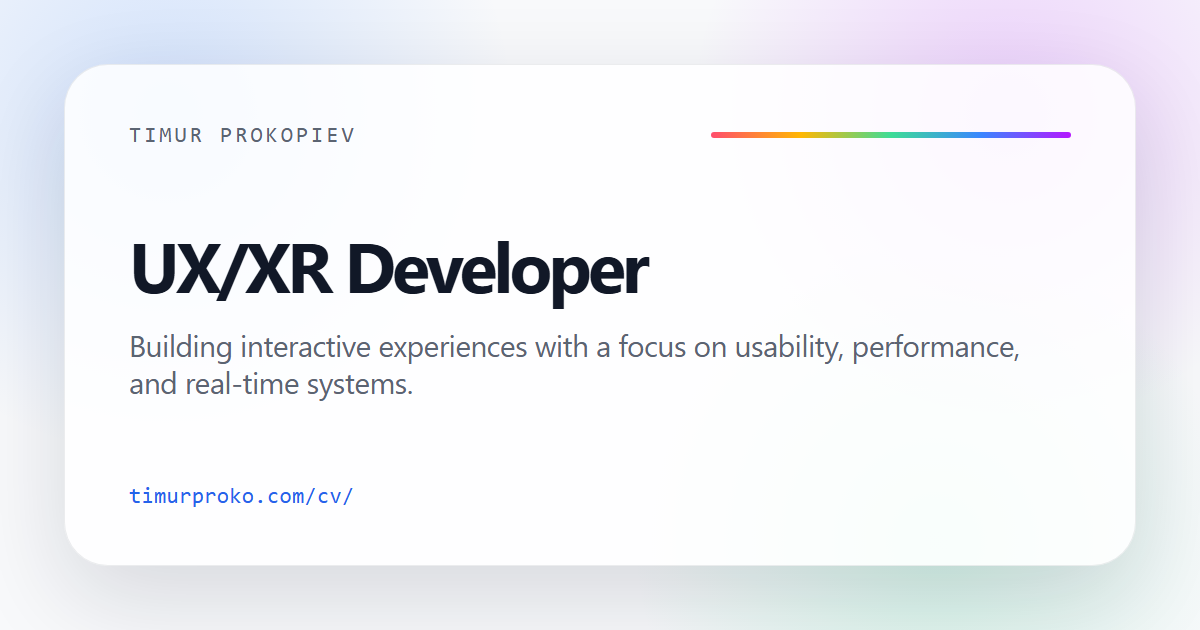
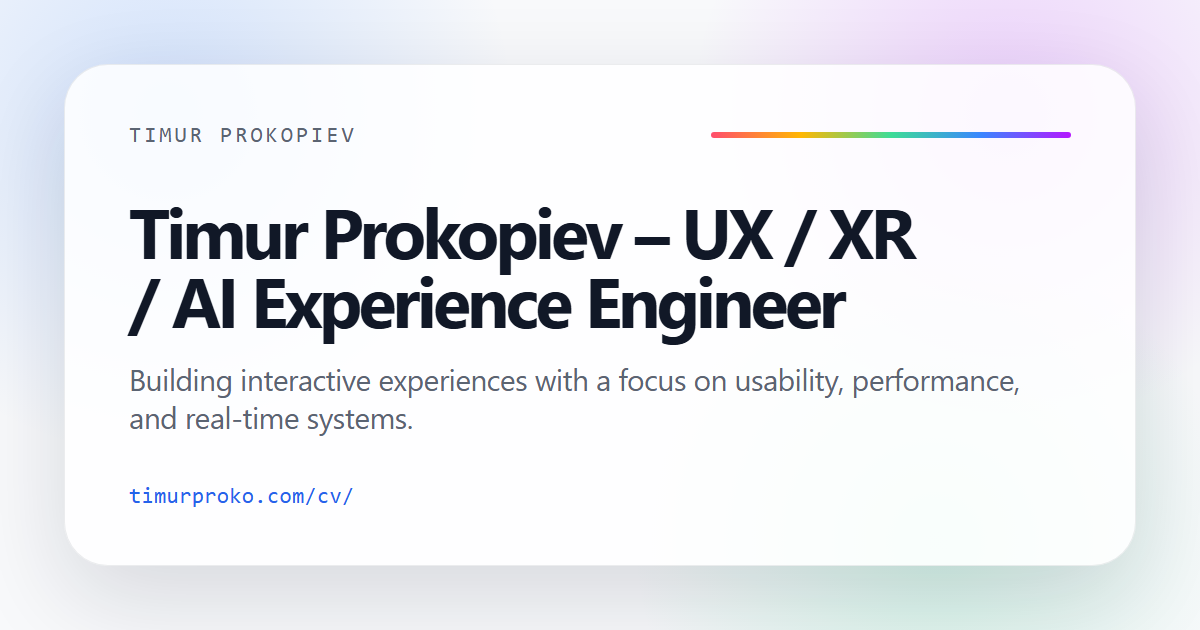
Title the CV like the home page and drop its PDF eyebrow
The CV tab, share tags and share image use "Timur Prokopiev – UX / XR / AI
Experience Engineer" instead of "UX/XR Developer", and the printed CV (and
so the deploy-built PDF) leaves out the "Curriculum Vitae" eyebrow.

Changed region(s): [[0.0925, 0.3317, 0.8633, 0.6937]]

diff --git a/src/cv/index.html b/src/cv/index.html
@@ -8,19 +8,19 @@
   <link rel="canonical" href="https://timurproko.com/cv/" />
   <meta property="og:type" content="website" />
   <meta property="og:site_name" content="Timur Prokopiev" />
-  <meta property="og:title" content="UX/XR Developer" />
+  <meta property="og:title" content="Timur Prokopiev – UX / XR / AI Experience Engineer" />
   <meta property="og:description" content="Building interactive experiences with a focus on usability, performance, and real-time systems." />
   <meta property="og:url" content="https://timurproko.com/cv/" />
   <meta property="og:image" content="https://timurproko.com/assets/social/cv.png" />
   <meta property="og:image:width" content="1200" />
   <meta property="og:image:height" content="630" />
-  <meta property="og:image:alt" content="UX/XR Developer — social preview" />
+  <meta property="og:image:alt" content="Timur Prokopiev – UX / XR / AI Experience Engineer — social preview" />
   <meta name="twitter:card" content="summary_large_image" />
-  <meta name="twitter:title" content="UX/XR Developer" />
+  <meta name="twitter:title" content="Timur Prokopiev – UX / XR / AI Experience Engineer" />
   <meta name="twitter:description" content="Building interactive experiences with a focus on usability, performance, and real-time systems." />
   <meta name="twitter:image" content="https://timurproko.com/assets/social/cv.png" />
   <!-- social-preview:end -->
-  <title>UX/XR Developer</title>
+  <title>Timur Prokopiev – UX / XR / AI Experience Engineer</title>
   <link rel="icon" href="/favicon.ico" sizes="any">
   <link rel="icon" type="image/png" sizes="32x32" href="/favicon-32x32.png">
   <link rel="icon" type="image/png" sizes="16x16" href="/favicon-16x16.png">
@@ -688,15 +688,8 @@
         border-bottom: 0;
         break-after: avoid;
       }
-      /* Curriculum Vitae sits top-right, level with the photo */
-      .hero { position: relative; }
-      .hero-top { position: absolute; top: 0; right: 0; margin: 0; }
-      .eyebrow {
-        font-size: 9.5px;
-        letter-spacing: 0.14em;
-        color: black;
-      }
-      .eyebrow::before { width: 14px; height: 1px; }
+      /* The PDF leaves out the "Curriculum Vitae" eyebrow */
+      .hero-top { display: none; }
       /* Links carry the case pages' ↗ so they read as clickable in the PDF */
       .quick-meta a.chip .print-url::after,
       .quick-meta a.print-only-chip::after,
